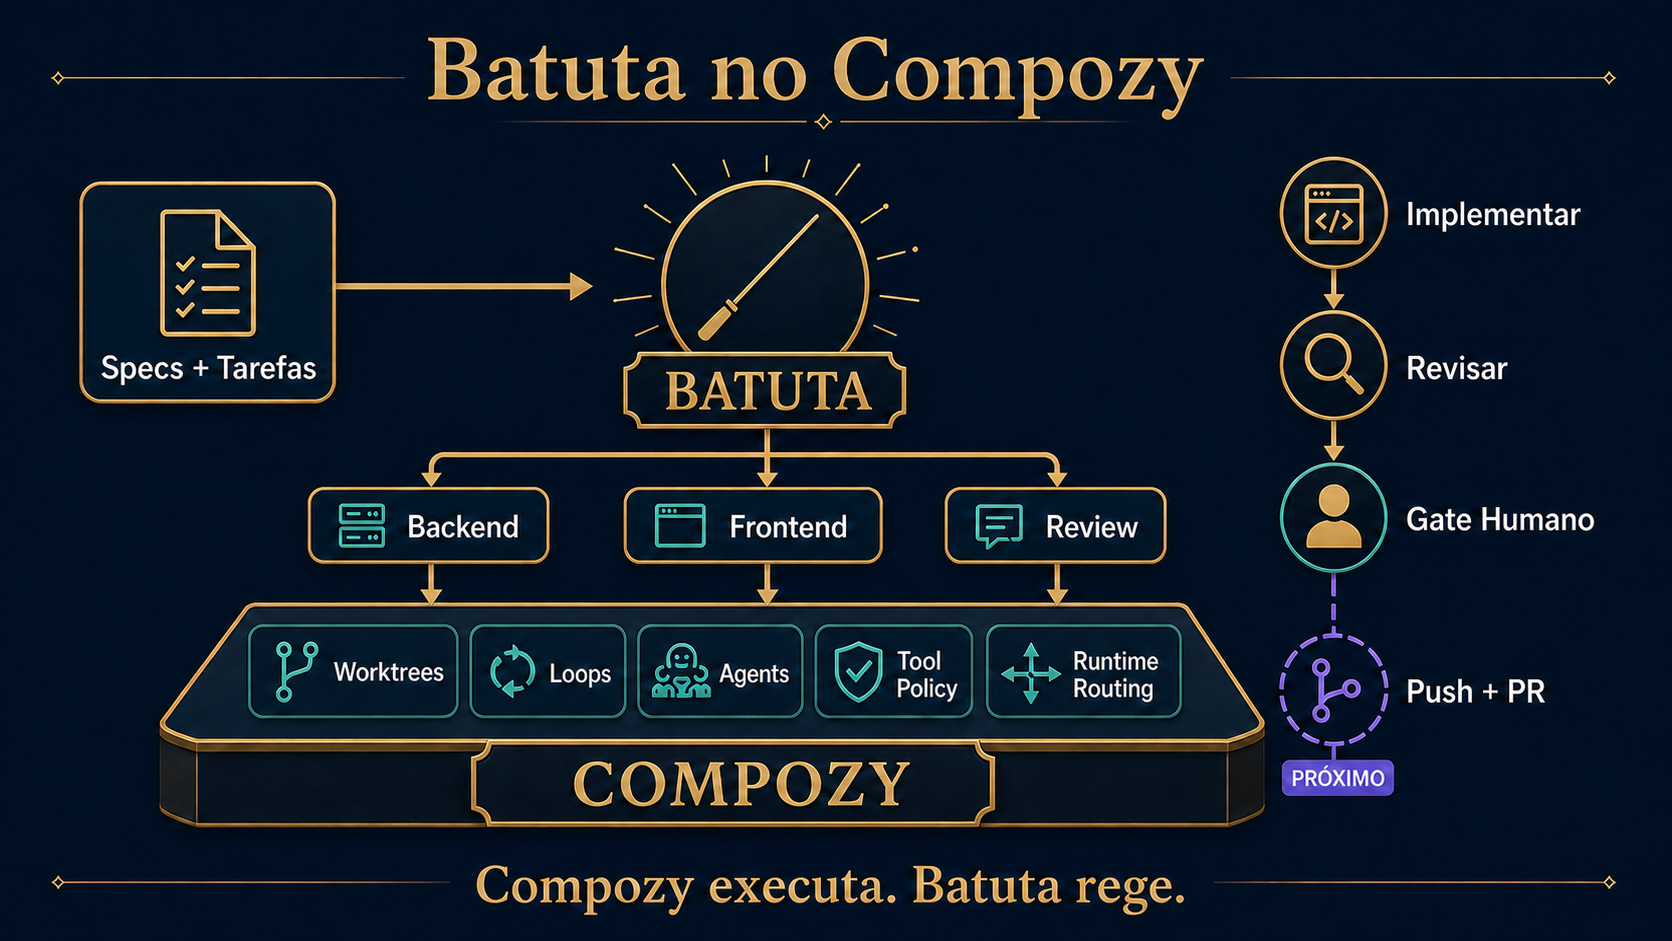
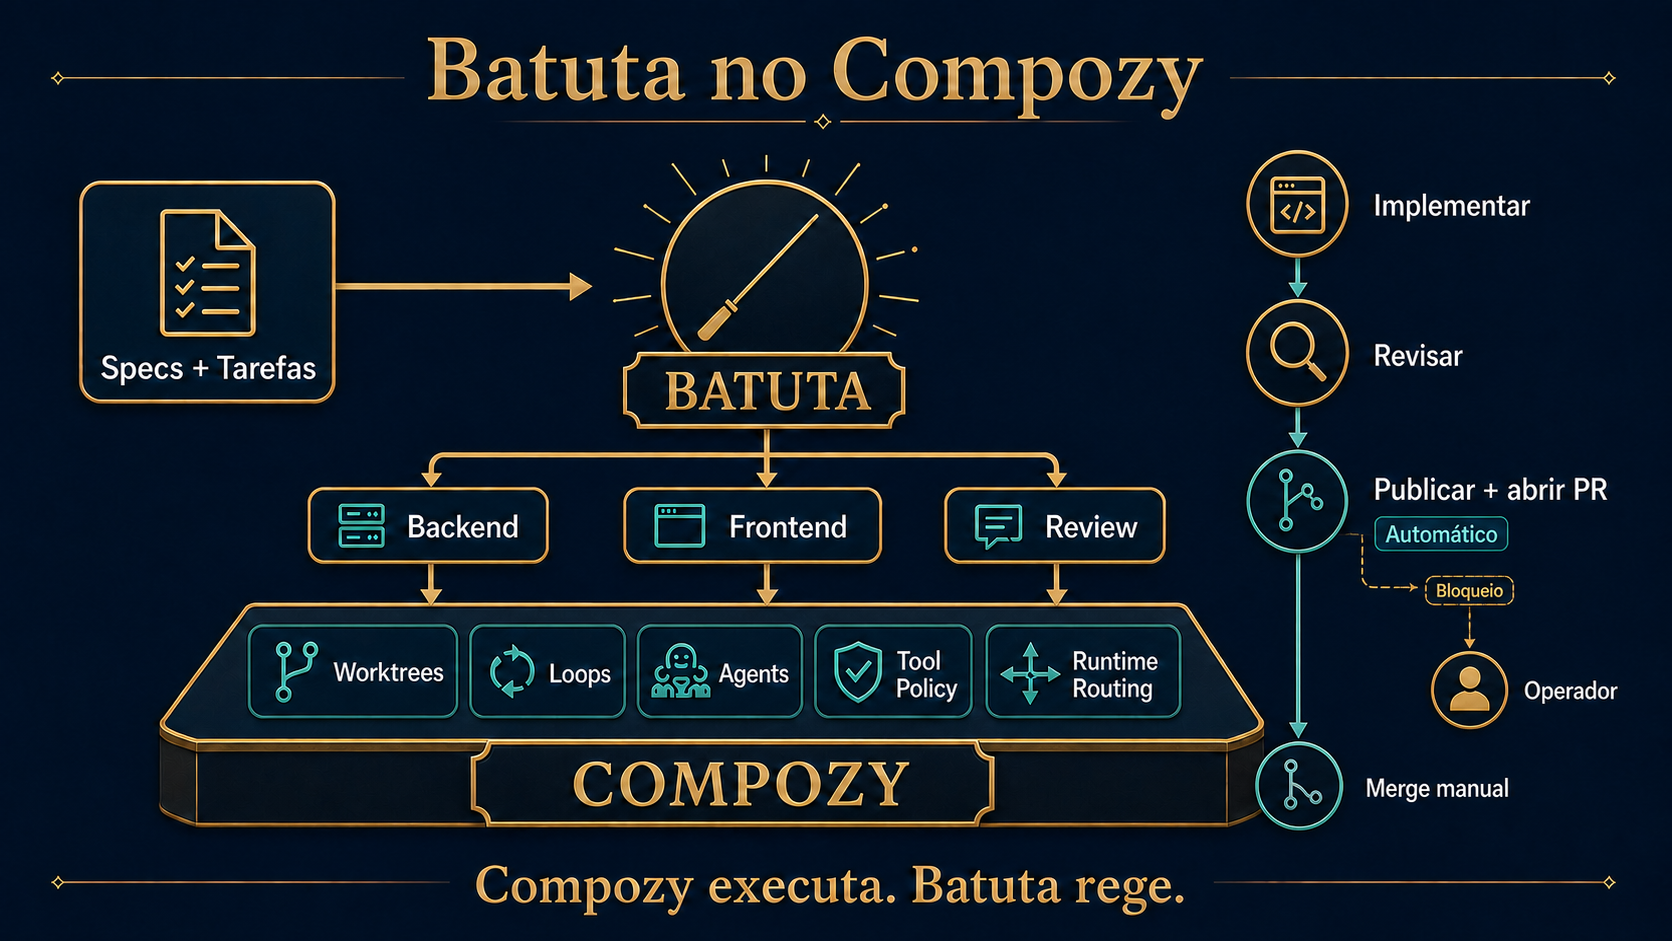
docs: automate batuta publication flow

diff --git a/docs/internal/plans/2026-08-25-batuta-scoped-llm-publication.md b/docs/internal/plans/2026-08-25-batuta-scoped-llm-publication.md
@@ -2,9 +2,9 @@
 
 > **For agentic workers:** REQUIRED SUB-SKILL: Use superpowers:subagent-driven-development (recommended) or superpowers:executing-plans to implement this plan task-by-task. Steps use checkbox (`- [ ]`) syntax for tracking.
 
-**Goal:** Turn Batuta into a code-backed Go extension that owns clean-HEAD publication, permits its publisher LLM to call exactly one mutating capability, and ends an approved delivery only after an independently verified pull request exists.
+**Goal:** Turn Batuta into a code-backed Go extension that owns clean-HEAD publication, permits its publisher LLM to call exactly one mutating capability, and automatically ends a clean delivery only after an independently verified pull request exists.
 
-**Architecture:** A standard-library publication core owns command execution, trusted-workspace validation, worktree inspection, Git evidence, exit-plan classification, push/PR reconciliation, and final verification. A thin Compozy SDK boundary registers three tools, while the existing daemon-enforced agent tool allowlist limits the publisher to the single mutating tool. The existing resource kit remains bundled, while `batuta-deliver` becomes a literal-commit, plan → gate → scoped Goal → verify graph.
+**Architecture:** A standard-library publication core owns command execution, trusted-workspace validation, worktree inspection, Git evidence, exit-plan classification, push/PR reconciliation, and final verification. A thin Compozy SDK boundary registers three tools, while the existing daemon-enforced agent tool allowlist limits the publisher to the single mutating tool. The existing resource kit remains bundled, while `batuta-deliver` becomes a literal-commit, plan → deterministic route → scoped Goal → verify graph. Only a deterministic pre-mutation blocker may route to bounded operator recovery; the healthy path has no human gate.
 
 **Tech Stack:** Go 1.26.4, Compozy Go extension SDK, standard-library `os/exec` and `encoding/json`, Bash contract tests, Python `unittest`, Compozy Loop v1.
 
@@ -21,7 +21,7 @@
 - `batuta-deliver` has no `auto_commit` input and passes literal `true` to `implement-tasks` and `review-and-fix`.
 - A publishable result is successful only with a real PR URL and exact expected remote HEAD; compare-only success is forbidden.
 - GitHub distribution for the first executable beta is explicitly `linux/amd64`; local source builds remain host-native. Do not publish one Linux archive as if it were portable to macOS or Windows.
-- Keep the public publication gate. The operator chooses only approve or reject and performs no implementation, commit, push, PR, or verification step.
+- Do not place a human gate on `publishable` or `nothing_to_publish`. Publication and PR opening are automatic after clean review. A deterministic pre-mutation blocker may route to one bounded recovery gate; post-mutation ambiguity stops terminally with durable operation IDs. Merge remains manual.
 - Run `tests/contract/run.sh` only from a disposable detached worktree without a `.compozy/` marker.
 - Every shell command starts with `rtk`. Keep heavy build scratch in a unique `/home/francisross/tmp-builds` directory, but leave `TMPDIR` and `GOTMPDIR` unset for Compozy `make gate*` and Go tests that need `/tmp` semantics.
 
@@ -364,7 +364,7 @@ type BlockedPlanError struct { Plan PlanOutput }
 codes; callers recover the structured plan with `errors.As` and never parse the
 message.
 
-Use stable machine blocker values: `trusted_scope_missing`, `worktree_unavailable`, `workspace_mismatch`, `worktree_not_ready`, `worktree_path_invalid`, `git_unreadable`, `dirty_worktree`, `detached_head`, `branch_mismatch`, `head_invalid`, `exit_plan_mismatch`, `exit_plan_paused`, `branch_diverged`, `branch_behind`, `remote_missing`, `forge_unavailable`, and `publication_state_ambiguous`. Return `BlockedPlanError` carrying the structured blocked plan for expected unsafe posture. Malformed input and transport/decoding failures remain distinct errors. The SDK handler in Task 5 maps `BlockedPlanError` to a typed tool failure with safe blocker data, so the Loop stops before the human gate; only `publishable` and `nothing_to_publish` are successful tool results.
+Use stable machine blocker values: `trusted_scope_missing`, `worktree_unavailable`, `workspace_mismatch`, `worktree_not_ready`, `worktree_path_invalid`, `git_unreadable`, `dirty_worktree`, `detached_head`, `branch_mismatch`, `head_invalid`, `exit_plan_mismatch`, `exit_plan_paused`, `branch_diverged`, `branch_behind`, `remote_missing`, `forge_unavailable`, and `publication_state_ambiguous`. Return `BlockedPlanError` carrying the structured blocked plan for expected unsafe posture. Malformed input and transport/decoding failures remain distinct errors. The SDK handler in Task 5 converts only expected pre-mutation `BlockedPlanError` values into a safe structured `blocked` plan so Task 6 can route them to bounded recovery. Transport, decoding, and unexpected failures remain tool failures and stop the Loop.
 
 Treat tracking-upstream state separately from remote existence. A first publication legitimately has `has_upstream=false`, null `ahead`/`behind`, and a non-null `ahead_of_base`; the fresh exit plan's `push` row proves that an origin exists. After push, `has_upstream=true` and `ahead_of_base` is null. Classify both using `CommitsAheadOfBase` against the daemon-selected base, call `UpstreamHead` only when tracking exists, and cross-check `ahead_of_base` when Compozy supplies it.
 
@@ -659,7 +659,7 @@ publish_worktree      risk=mutating   input={worktree_ref,expected_head_sha}
 publication_verify    read_only=true  input={worktree_ref,expected_head_sha,publisher_result}
 ```
 
-Every input schema uses `additionalProperties:false`. Tool handlers require non-nil trusted workspace with non-empty ID and absolute Root and convert only that object into `publication.TrustedScope`. The plan handler maps `BlockedPlanError` to a typed tool failure carrying only the closed blocker codes, so unsafe posture terminates the node before the gate; that handler returns `compozysdk.StructuredResult` only for `publishable` and `nothing_to_publish`. The mutating publisher still returns its structured `blocked` status so the Goal can emit authoritative top-level `status: blocked`. No handler returns textual success without structured evidence.
+Every input schema uses `additionalProperties:false`. Tool handlers require non-nil trusted workspace with non-empty ID and absolute Root and convert only that object into `publication.TrustedScope`. The plan handler maps an expected `BlockedPlanError` to a successful structured result whose disposition is `blocked` and whose evidence contains only the closed blocker code, clean/head/branch facts, and safe exit-plan projection. That is routing data, not publication success. Transport, decoding, malformed-input, or unknown errors remain typed tool failures. The mutating publisher returns structured `blocked` after any unsafe or ambiguous mutation outcome so the Goal emits authoritative top-level `status: blocked`. No handler returns textual success without structured evidence.
 
 - [ ] **Step 7: Verify generated manifest round-trip and commit**
 
@@ -687,19 +687,19 @@ rtk git commit -m "feat: expose scoped publication extension"
 
 ---
 
-### Task 6: Literal-commit Loop graph and publisher agent containment
+### Task 6: Automatic publication graph and publisher containment
 
 **Files:**
 - Modify: `loops/batuta-deliver/loop.yaml`
 - Modify: `agents/batuta-publisher/AGENT.md`
 - Modify: `agents/batuta/AGENT.md`
 - Modify: `tests/contract/test_04_deliver_validate.sh`
-- Modify: `tests/e2e/assert_publication_gate.py`
-- Modify: `tests/e2e/test_assert_publication_gate.py`
+- Rename: `tests/e2e/assert_publication_gate.py` → `tests/e2e/assert_publication_flow.py`
+- Rename: `tests/e2e/test_assert_publication_gate.py` → `tests/e2e/test_assert_publication_flow.py`
 
 **Interfaces:**
 - Consumes: Task 5 exact tool IDs and Task 3/4 output schemas.
-- Produces: review → plan → unconditional check → human gate → scoped publisher Goal → independent verify.
+- Produces: review → plan → deterministic route → automatic scoped publisher Goal → independent verify; only a pre-mutation blocker reaches operator recovery.
 
 - [ ] **Step 1: Rewrite contract tests first**
 
@@ -711,15 +711,20 @@ implement.params.inputs.auto_commit == true
 review.params.inputs.auto_commit == true
 publication_plan kind == ext__batuta__publication_plan
 publication_plan receives only worktree_ref
+publication_route is a route over publication_plan.output.disposition
+publishable routes directly to publish with no gate
+nothing_to_publish routes directly to publication_verify with no gate
+blocked routes only to recovery_gate
+recovery_gate cannot reach publish directly
 publish Goal output has control status complete|blocked and a nested publication_result
 publication_result forbids compare_url and requires status/head_sha/op_ids/summary
 publication_verify kind == ext__batuta__publication_verify
-publication_verify receives publish.output.publication_result, never Goal control status
-edges are review→publication_plan→publish_check→publish_gate→publish→publication_verify
-definition_of_done requires publication_verify
+publication_verify receives publish.output.publication_result on the published path
+definition_of_done requires publication_verify and a real PR for published work
+no automatic merge node or tool exists
 ```
 
-Update the Python event checker to require a successful `publication_verify` event after a successful `publish`, and to reject compare-only evidence.
+Replace the gate-centric Python checker with a publication-flow checker. It must require `publish` and then `publication_verify` on the healthy published path without any `needs_approval`; accept a verified `nothing_to_publish` path without running `publish`; require `needs_approval` only for `recovery_gate` after a structured blocked plan; and reject compare-only evidence, an operator gate on the healthy path, or any merge mutation.
 
 - [ ] **Step 2: Verify RED**
 
@@ -727,16 +732,32 @@ Run:
 
 ```bash
 rtk tests/contract/test_04_deliver_validate.sh
-rtk python3 -m unittest tests.e2e.test_assert_publication_gate
+rtk python3 -m unittest tests.e2e.test_assert_publication_flow
 ```
 
-Expected: failures on the old `auto_commit` input, missing plan/verify nodes, and compare URL acceptance.
+Expected: failures on the old `auto_commit` input, mandatory human gate, missing plan/verify nodes, and compare URL acceptance.
 
 - [ ] **Step 3: Implement the revised graph and agent contract**
 
-Remove `inputs.auto_commit`. Pass literal `true` to both child Loops. Replace `worktree_state` with direct `publication_plan`, keep `publish_check condition: "true"`, and render plan evidence in the human gate prompt. A `BlockedPlanError` from the direct plan action fails the node, so only `publishable` and `nothing_to_publish` can reach `publish_check` and the gate. The publisher Goal objective supplies only `worktree_ref` and `publication_plan.output.head_sha`, instructs exactly one call to `ext__batuta__publish_worktree`, and forbids invented evidence.
+Remove `inputs.auto_commit` and pass literal `true` to both child Loops. Replace `worktree_state`/`publish_check` with direct `publication_plan` and a closed `route`:
 
-The Goal output uses Compozy's authoritative control envelope:
+```yaml
+- id: publication_route
+  class: control
+  kind: route
+  routes:
+    - when: nodes.publication_plan.output.disposition == 'publishable'
+      to: publish
+    - when: nodes.publication_plan.output.disposition == 'nothing_to_publish'
+      to: publication_verify_nothing
+    - when: nodes.publication_plan.output.disposition == 'blocked'
+      to: recovery_gate
+  default: publication_contract_failure
+```
+
+`publication_contract_failure` fails closed without mutation. `recovery_gate` is the only human gate and its prompt contains the safe blocker code plus run/worktree identity. Approval performs one bounded re-plan by returning to a distinct `publication_replan` node and route; rejection stops blocked. The recovery path has no edge directly to `publish`, and the graph admits at most one operator-assisted re-plan. Any blocker after `publish_worktree` returns top-level Goal `status: blocked` with durable operation IDs and terminates without a gate or retry.
+
+The publisher Goal objective supplies only `worktree_ref` and `publication_plan.output.head_sha`, instructs exactly one call to `ext__batuta__publish_worktree`, and forbids invented evidence. Its output uses Compozy's authoritative control envelope:
 
 ```yaml
 status: complete | blocked
@@ -749,7 +770,7 @@ publication_result:
   last_exit_plan: object
 ```
 
-When the tool returns `published` or `nothing_to_publish`, the agent reports top-level `status: complete`; when it returns `blocked`, it reports top-level `status: blocked`, terminating the Goal and parent run without verification. Add `publication_verify` only on the successful Goal edge and pass `publish.output.publication_result` as `publisher_result`, never the top-level Goal control status.
+When the tool returns `published` or `nothing_to_publish`, the agent reports top-level `status: complete`; when it returns `blocked`, it reports top-level `status: blocked`. `publication_verify` receives `publish.output.publication_result`, never the top-level Goal control status. The `nothing_to_publish` verifier receives a deterministic publisher-result envelope built from the fresh plan and zero operation IDs. No path accepts a compare URL. No path merges the PR.
 
 Set `agents/batuta-publisher/AGENT.md` frontmatter to:
 
@@ -763,7 +784,7 @@ tools:
 ---
 ```
 
-Its body must say: call the tool exactly once with the provided ref/SHA; never call shell, Git, filesystem, session, gate, or another extension tool; report the structured result exactly; a blocked tool result remains blocked. Remove all shell procedure and compare-URL language. Update the conductor so `auto_commit=true` is a Batuta invariant, not a preference or operator gate.
+Its body must say: call the tool exactly once with the provided ref/SHA; never call shell, Git, filesystem, session, gate, merge, or another extension tool; report the structured result exactly; a blocked tool result remains blocked. Remove all shell procedure and compare-URL language. Update the conductor so literal commits, automatic publication after clean review, automatic PR opening, and manual merge are Batuta invariants.
 
 - [ ] **Step 4: Verify GREEN and commit**
 
@@ -774,13 +795,13 @@ rtk tests/contract/test_04_deliver_validate.sh
 rtk python3 -m unittest discover -s tests/e2e -p 'test_*.py'
 ```
 
-Expected: all pass.
+Expected: all pass with no healthy-path approval event.
 
 Commit:
 
 ```bash
-rtk git add loops/batuta-deliver/loop.yaml agents/batuta-publisher/AGENT.md agents/batuta/AGENT.md tests/contract/test_04_deliver_validate.sh tests/e2e/assert_publication_gate.py tests/e2e/test_assert_publication_gate.py
-rtk git commit -m "feat: complete verified publication loop"
+rtk git add loops/batuta-deliver/loop.yaml agents/batuta-publisher/AGENT.md agents/batuta/AGENT.md tests/contract/test_04_deliver_validate.sh tests/e2e
+rtk git commit -m "feat: automate verified publication loop"
 ```
 
 ---
@@ -877,6 +898,7 @@ rtk git commit -m "build: package executable batuta extension"
 - Modify: `docs/how-it-works.md`
 - Modify: `docs/architecture.md`
 - Modify: `docs/verify.md`
+- Modify: `docs/images/batuta-no-compozy.png`
 - Modify: `CONTRIBUTING.md`
 - Create: `docs/releases/0.1.0-beta.5.md`
 - Create: `docs/internal/qa/2026-08-25-batuta-publication.md`
@@ -887,7 +909,7 @@ rtk git commit -m "build: package executable batuta extension"
 
 - [ ] **Step 1: Write the no-forge refusal smoke before implementation**
 
-`publication_negative_smoke.sh` creates a temporary workspace, local bare Git remote, base commit, delivery worktree/branch, committed change, isolated Compozy home/daemon, and dev-linked Batuta generation. It invokes `publication_plan` through the public Compozy surface and requires a typed `forge_unavailable` failure before the gate. It then proves the remote branch was not created, no push/PR operation ID exists, and no publication handler mutation occurred. It never calls `publish_worktree` after the blocked plan and never treats a compare URL as success.
+`publication_negative_smoke.sh` creates a temporary workspace, local bare Git remote, base commit, delivery worktree/branch, committed change, isolated Compozy home/daemon, and dev-linked Batuta generation. It invokes `publication_plan` through the public Compozy surface and requires a structured `forge_unavailable` blocked disposition routed to `recovery_gate`. It then proves the remote branch was not created, no push/PR operation ID exists, and no publication handler mutation occurred. It never calls `publish_worktree` before an approved bounded re-plan becomes publishable and never treats a compare URL as success.
 
 - [ ] **Step 2: Write the serving-forge and Goal-containment smoke**
 
@@ -907,7 +929,7 @@ It proves:
 - dirty/drifted, foreign-workspace, fabricated-result, and unavailable-tool cases fail closed;
 - teardown leaves no extension or Goal subprocess alive.
 
-It also runs live negative rows for human gate rejection, an authored submission containing the removed `auto_commit=false` input, and a serving forge with credentials deliberately unavailable. Every row requires zero push, zero PR, zero durable publication operation, zero pending permission interaction, and clean fixture teardown. This deterministic fixture is integration evidence, not a substitute for the release QA run against a real serving forge.
+It also runs live negative rows for a structured pre-mutation blocker routed to `recovery_gate`, recovery rejection, an authored submission containing the removed `auto_commit=false` input, and a serving forge with credentials deliberately unavailable. Every pre-mutation blocked row requires zero push, zero PR, zero durable publication operation, zero pending permission interaction outside the explicit recovery gate, and clean fixture teardown. This deterministic fixture is integration evidence, not a substitute for the release QA run against a real serving forge.
 
 - [ ] **Step 3: Verify RED, then implement only the fixtures/harnesses required by the tests**
 
@@ -915,7 +937,7 @@ Run each smoke once to capture honest RED at its named missing fixture/boundary,
 
 - [ ] **Step 4: Update docs and the release QA matrix**
 
-Document: Go 1.26.4 toolchain; exact qualifying Compozy prerelease; literal commits; one human publication gate; exact daemon-enforced publisher allowlist; trusted publication capability; actual PR requirement; local bare-remote negative smoke; fixture-backed and real-forge positive smokes; dirty/drifted/foreign-worktree/fabricated-result/forbidden-tool negatives; and the initial `linux/amd64` GitHub-package limit. Remove every instruction that asks the operator to commit, push, open a PR, accept compare-only success, configure `auto_commit=false`, or approve publisher shell commands. The beta release note records removal of `auto_commit=false` as a breaking change.
+Document: Go 1.26.4 toolchain; exact qualifying Compozy prerelease; literal commits; automatic publication and PR opening after clean review; conditional bounded operator recovery only for pre-mutation blockers; manual merge; exact daemon-enforced publisher allowlist; trusted publication capability; actual PR requirement; local bare-remote negative smoke; fixture-backed and real-forge positive smokes; dirty/drifted/foreign-worktree/fabricated-result/forbidden-tool negatives; and the initial `linux/amd64` GitHub-package limit. Remove every instruction that asks the operator to commit, push, open a PR, accept compare-only success, configure `auto_commit=false`, approve healthy publication, or approve publisher shell commands. Update `docs/images/batuta-no-compozy.png` so the dominant path is `Implementar → Revisar → Publicar + abrir PR (Automático)`, `Bloqueio → Operador` is a side branch, and `Merge manual` is explicit. The beta release note records removal of `auto_commit=false` as a breaking change.
 
 - [ ] **Step 5: Run focused and full local verification**
 
@@ -941,7 +963,7 @@ Before publishing the beta, run the same positive assertions against a real serv
 - [ ] **Step 7: Commit docs and integration evidence**
 
 ```bash
-rtk git add tests/integration tests/e2e tests/contract/test_07_public_docs.sh README.md README.pt-BR.md CONTRIBUTING.md docs/architecture.md docs/how-it-works.md docs/verify.md docs/releases docs/internal/qa
+rtk git add tests/integration tests/e2e tests/contract/test_07_public_docs.sh README.md README.pt-BR.md CONTRIBUTING.md docs/architecture.md docs/how-it-works.md docs/verify.md docs/images/batuta-no-compozy.png docs/releases docs/internal/qa
 rtk git commit -m "docs: ship autonomous publication workflow"
 ```
 
@@ -961,4 +983,4 @@ Stop this plan when:
 6. a real serving-forge QA smoke proves actual PR creation and independent verification; `blocked-verify` stops release and is not acceptance;
 7. no operator-owned commit, push, PR, compare URL, path, remote, or workspace input remains.
 
-Do not add graph engineering, executor inventory, domain routing, multi-forge support, automatic merge, branch cleanup, release publishing, or UI work in this plan.
+Do not add graph engineering, executor inventory, domain routing, multi-forge support, automatic merge, branch cleanup, release publishing, or product UI work in this plan. The presentation image update is documentation, not product UI.
